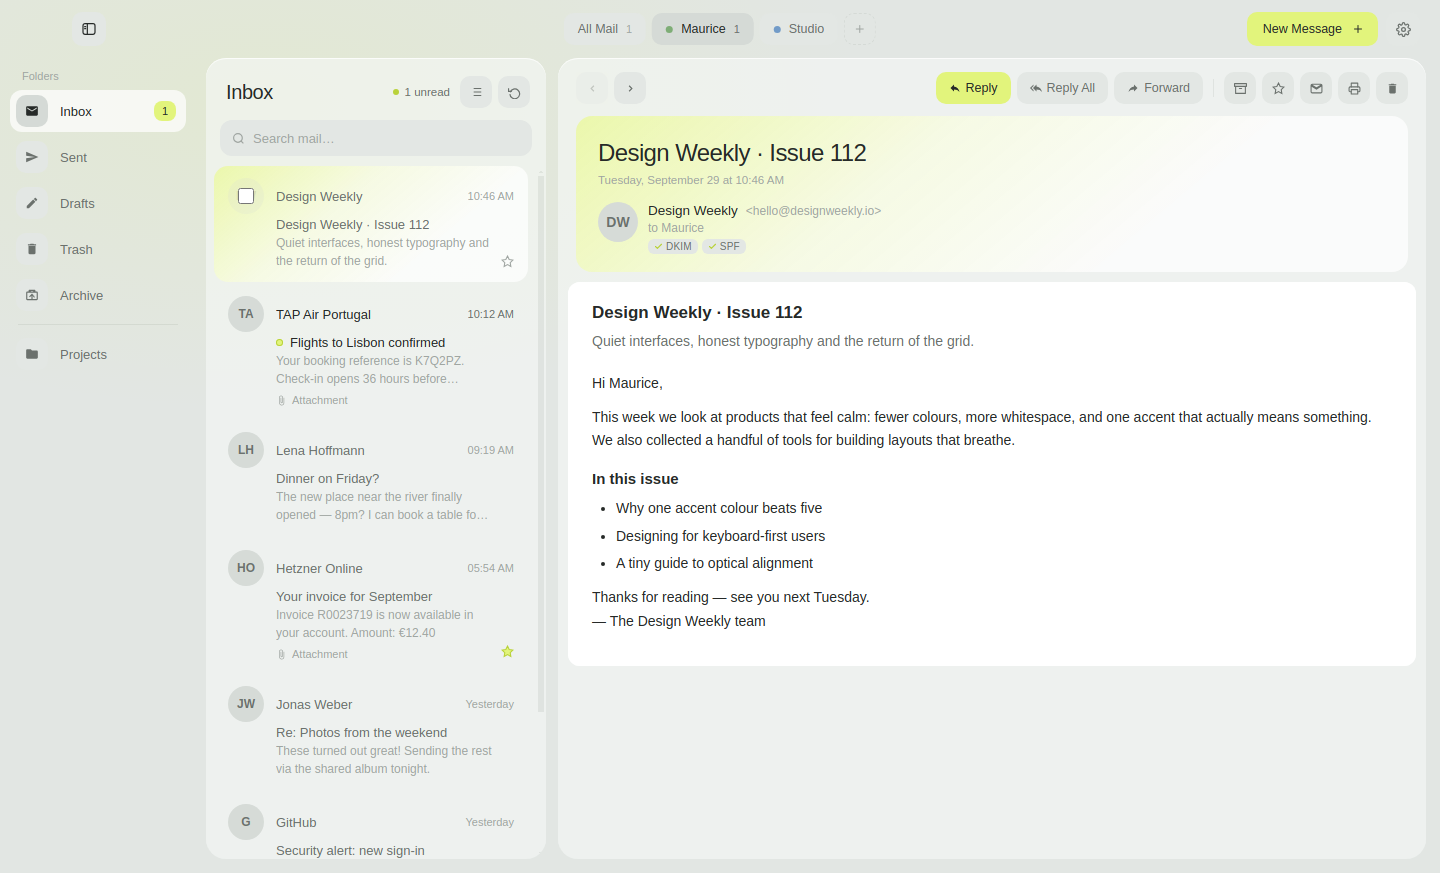
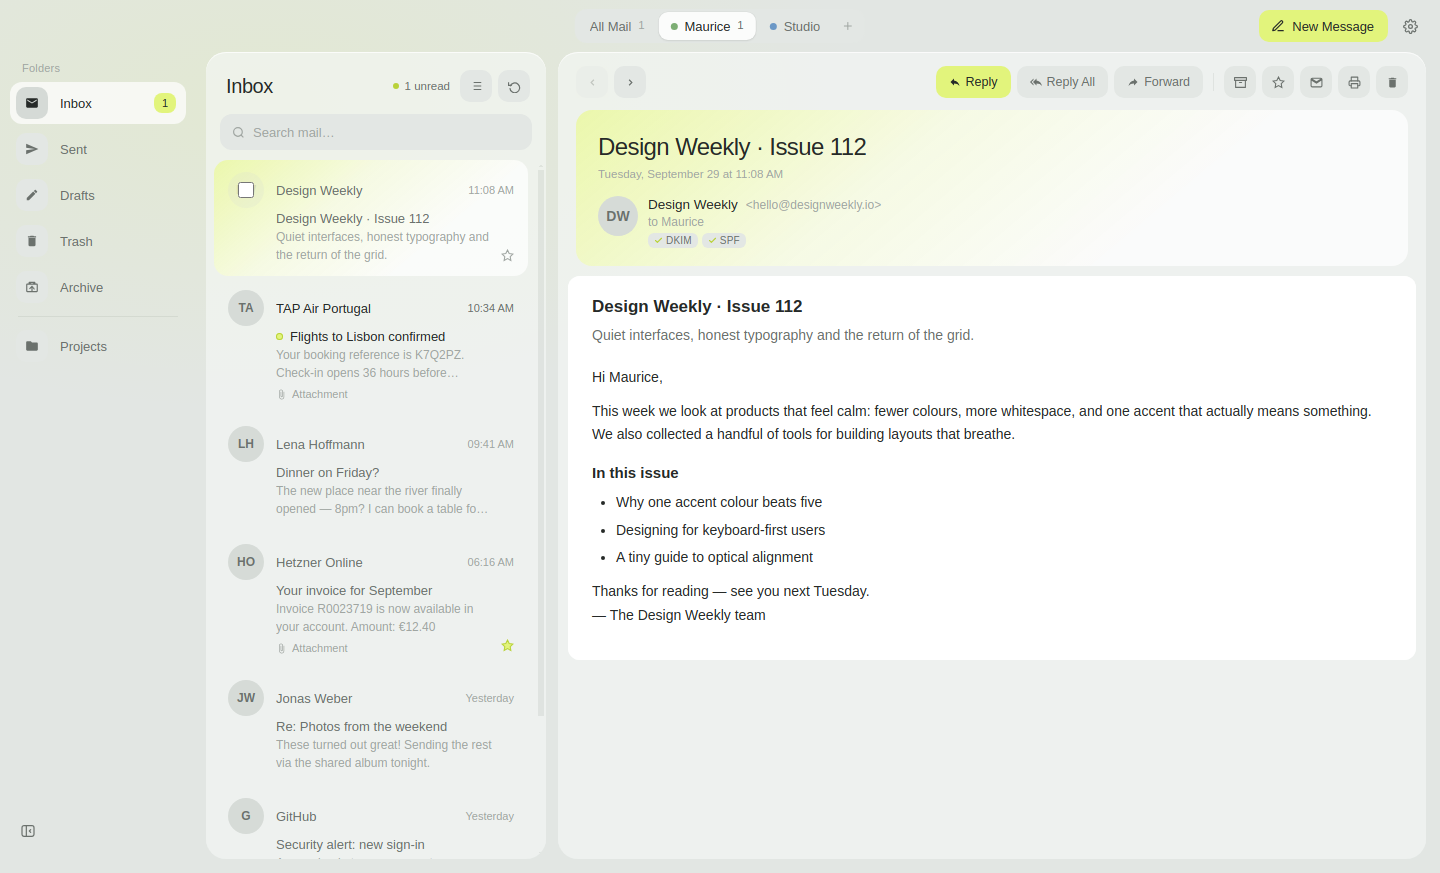
README screenshots show the new top bar; npm run screenshots works again

diff --git a/scripts/readme-screenshots.spec.js b/scripts/readme-screenshots.spec.js
@@ -79,7 +79,7 @@ test('readme screenshots', async () => {
   await page.locator('#sidebarToggle').click();
   await emailItem(page, 'Design Weekly').click();
   await shot('focus-mode');
-  await page.locator('#sidebarToggle').click();
+  await page.locator('#sidebarShowBtn').click();
   await ctx.close();
 
   // First-run onboarding

diff --git a/scripts/screenshots.config.js b/scripts/screenshots.config.js
@@ -1,0 +1,6 @@
+'use strict';
+
+// Regenerates the README screenshots in docs/screenshots: `npm run screenshots`
+const base = require('../playwright.config');
+
+module.exports = { ...base, testDir: '.', testMatch: 'readme-screenshots.spec.js', outputDir: '../test-results' };
